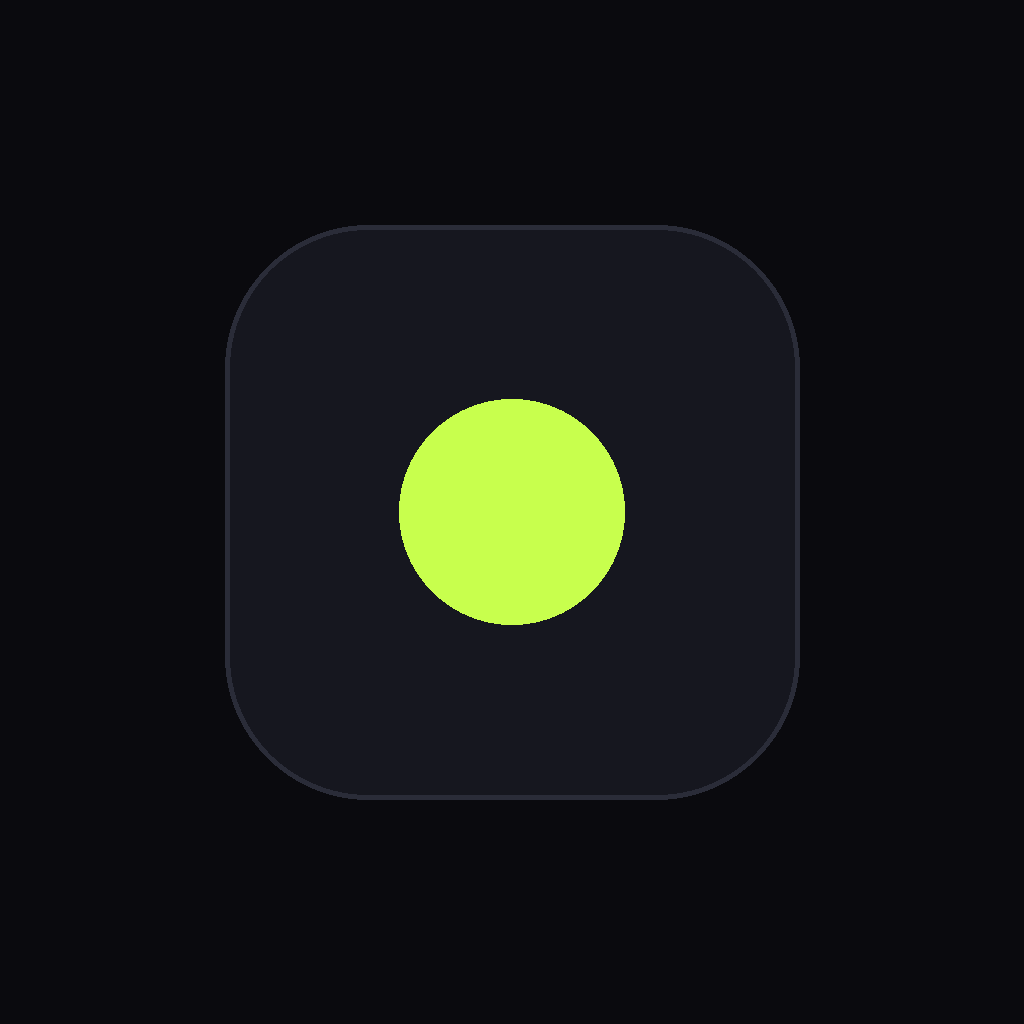
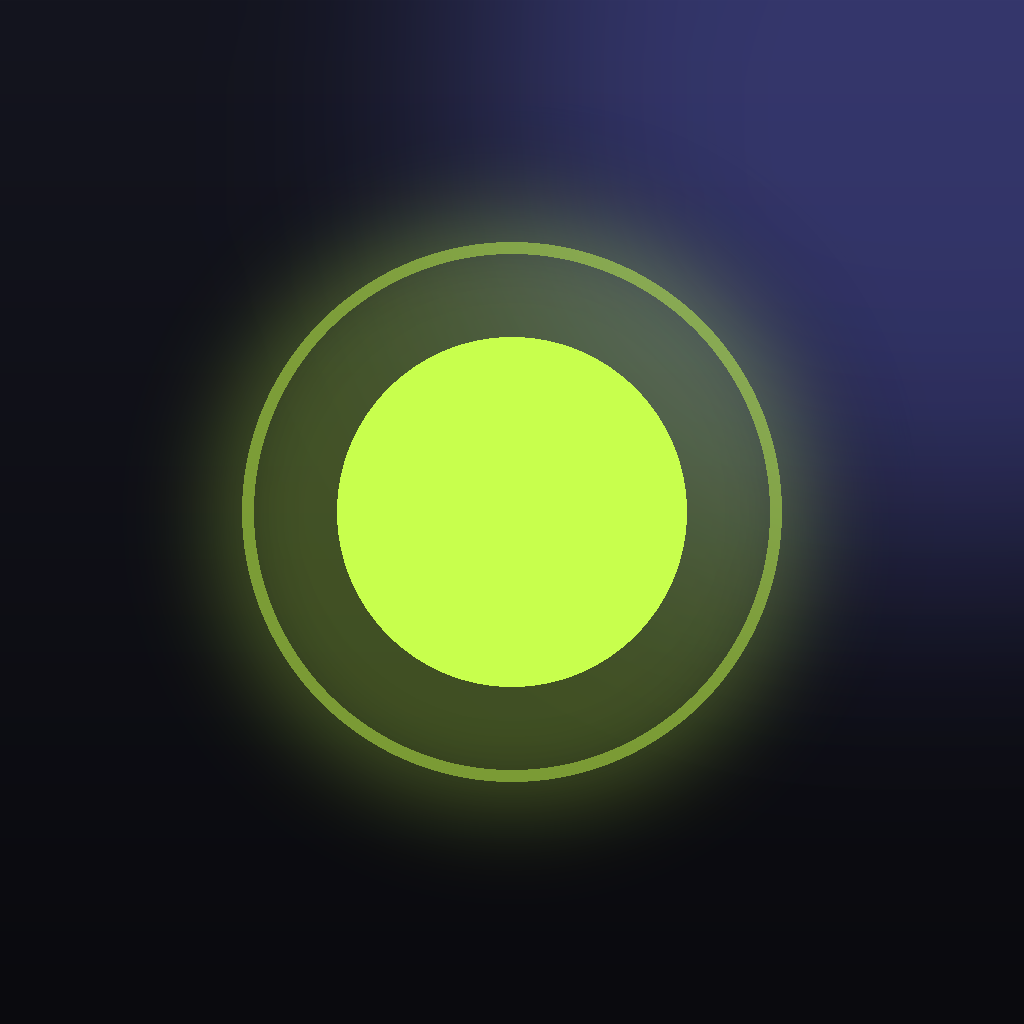
Mobil: yeni uygulama simgesi (tam dolu, parıltılı lime nokta), koyu açılış/arka plan ayarları
- simge: iç içe kutu yerine koyu degrade + lime nokta/halka; Android adaptive + monochrome yenilendi
- açılış ekranı ve tüm pencere/tema arka planı koyu (#0a0a0e): splash, ios/android backgroundColor,
  expo-system-ui, koyu navigasyon teması, yazı tipleri yüklenirken beyaz yerine koyu ekran

diff --git a/mobile/src/app/_layout.tsx b/mobile/src/app/_layout.tsx
@@ -1,10 +1,11 @@
 import { IBMPlexMono_500Medium, IBMPlexMono_600SemiBold } from '@expo-google-fonts/ibm-plex-mono';
 import { Inter_400Regular, Inter_500Medium, Inter_600SemiBold } from '@expo-google-fonts/inter';
 import { SpaceGrotesk_600SemiBold, SpaceGrotesk_700Bold, useFonts } from '@expo-google-fonts/space-grotesk';
-import { Stack } from 'expo-router';
+import { DarkTheme, Stack, ThemeProvider } from 'expo-router';
 import * as SplashScreen from 'expo-splash-screen';
 import { StatusBar } from 'expo-status-bar';
 import { useEffect } from 'react';
+import { View } from 'react-native';
 import { SafeAreaProvider } from 'react-native-safe-area-context';
 import { FavoritesProvider, ProductsProvider } from '../lib/store';
 import { colors, fonts } from '../theme';
@@ -18,9 +19,10 @@ export default function RootLayout() {
     IBMPlexMono_500Medium, IBMPlexMono_600SemiBold,
   });
   useEffect(() => { if (loaded) SplashScreen.hideAsync().catch(() => {}); }, [loaded]);
-  if (!loaded) return null;
+  if (!loaded) return <View style={{ flex: 1, backgroundColor: colors.bg }} />;
 
   return (
+    <ThemeProvider value={{ ...DarkTheme, colors: { ...DarkTheme.colors, background: colors.bg, card: colors.bg, border: colors.border, primary: colors.deal, text: colors.text } }}>
     <SafeAreaProvider>
       <ProductsProvider>
         <FavoritesProvider>
@@ -40,5 +42,6 @@ export default function RootLayout() {
         </FavoritesProvider>
       </ProductsProvider>
     </SafeAreaProvider>
+    </ThemeProvider>
   );
 }
